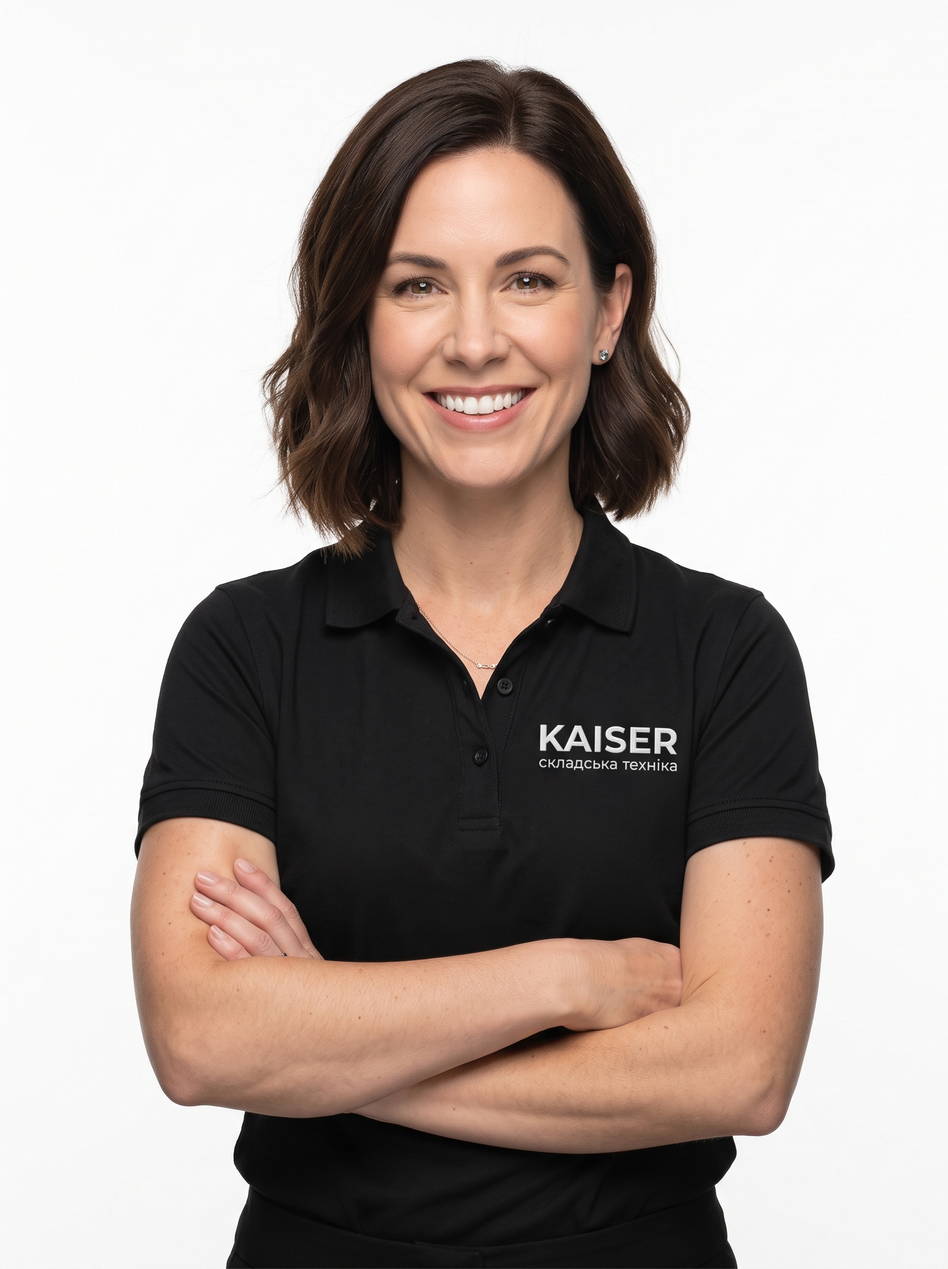
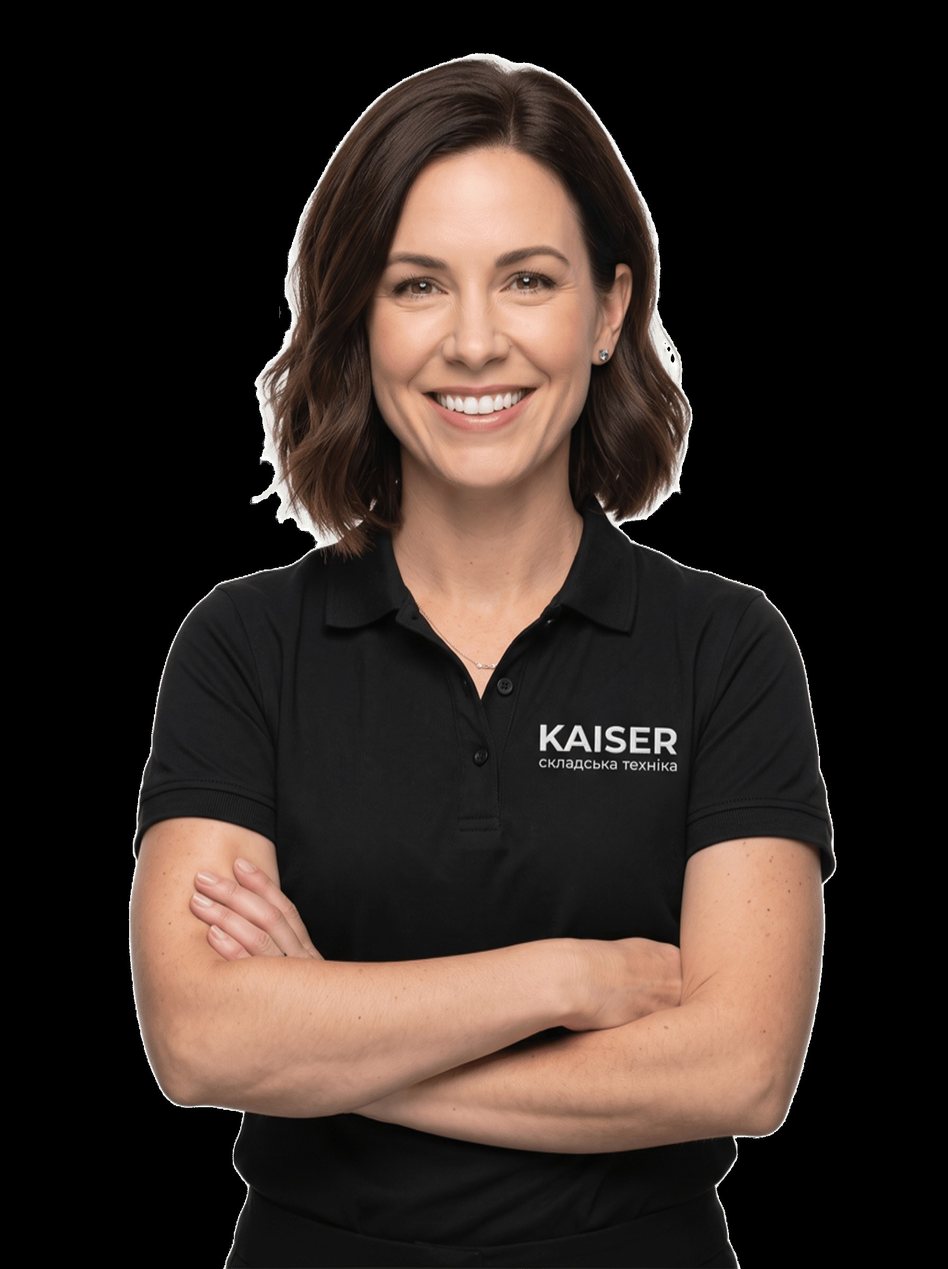
fix: crop product gallery images and pin consultation manager to section edge

diff --git a/src/components/sections/forms/ConsultationBlock.tsx b/src/components/sections/forms/ConsultationBlock.tsx
@@ -36,6 +36,7 @@ export function ConsultationBlock({ copy }: ConsultationBlockProps) {
   const [email, setEmail] = useState("");
   const [errors, setErrors] = useState<LeadFieldErrors>({});
   const [status, setStatus] = useState<"idle" | "success">("idle");
+  const [imageSrc, setImageSrc] = useState(copy.imageSrc);
 
   function validateField(field: keyof LeadFieldErrors) {
     const next = validateLeadFields(
@@ -71,10 +72,10 @@ export function ConsultationBlock({ copy }: ConsultationBlockProps) {
   return (
     <section
       id="consultation"
-      className="scroll-mt-20 border-y border-border bg-[#eef5f8]"
+      className="relative scroll-mt-20 overflow-hidden border-y border-border bg-[#eef5f8]"
     >
-      <div className="mx-auto grid w-full max-w-7xl items-end gap-10 px-4 py-16 sm:px-6 lg:grid-cols-[1fr_1fr_auto] lg:gap-12 lg:py-20">
-        <ScrollReveal className="flex flex-col gap-5 self-center">
+      <div className="mx-auto grid w-full max-w-7xl items-end gap-10 px-4 pt-16 sm:px-6 lg:grid-cols-[minmax(0,1fr)_minmax(0,1fr)_auto] lg:gap-8 lg:pt-20">
+        <ScrollReveal className="flex flex-col gap-5 pb-12 lg:pb-16">
           <h2 className="text-2xl font-bold tracking-tight text-heading sm:text-3xl">
             {copy.title}
           </h2>
@@ -90,7 +91,7 @@ export function ConsultationBlock({ copy }: ConsultationBlockProps) {
           </ul>
         </ScrollReveal>
 
-        <ScrollReveal delay={0.06} className="self-center">
+        <ScrollReveal delay={0.06} className="pb-12 lg:pb-16">
           {status === "success" ? (
             <p className="rounded-2xl border border-border bg-white px-5 py-8 text-center text-sm font-semibold text-heading shadow-sm">
               {copy.success}
@@ -138,18 +139,21 @@ export function ConsultationBlock({ copy }: ConsultationBlockProps) {
           )}
         </ScrollReveal>
 
-        <ScrollReveal
-          delay={0.1}
-          className="relative mx-auto h-52 w-full max-w-[14rem] overflow-hidden lg:h-[22rem] lg:w-56"
-        >
+        <div className="pointer-events-none flex justify-center self-end lg:justify-end">
           <Image
-            src={copy.imageSrc}
+            src={imageSrc}
             alt={copy.imageAlt}
-            fill
-            sizes="224px"
-            className="object-contain object-bottom"
+            width={420}
+            height={640}
+            sizes="(max-width: 1024px) 220px, 280px"
+            className="h-[340px] w-auto object-contain object-bottom lg:h-[400px]"
+            onError={() => {
+              if (imageSrc !== "/images/manager.jpg") {
+                setImageSrc("/images/manager.jpg");
+              }
+            }}
           />
-        </ScrollReveal>
+        </div>
       </div>
     </section>
   );

diff --git a/src/components/sections/hero/ProductHero.tsx b/src/components/sections/hero/ProductHero.tsx
@@ -44,19 +44,19 @@ export function ProductHero({ product, copy }: ProductHeroProps) {
                     aria-label={`${copy.thumbPlaceholder} ${index + 1}`}
                     aria-pressed={index === activeIndex}
                     className={cn(
-                      "w-full overflow-hidden rounded-lg transition-opacity",
+                      "w-full overflow-hidden rounded-lg border-2 transition-opacity",
                       index === activeIndex
-                        ? "ring-2 ring-accent ring-offset-1"
-                        : "opacity-80 hover:opacity-100",
+                        ? "border-accent"
+                        : "border-transparent opacity-80 hover:opacity-100",
                     )}
                   >
                     <MediaImage
                       src={image.src}
                       alt={image.alt}
                       aspect="1/1"
-                      fit="contain"
+                      fit="cover"
                       sizes="80px"
-                      className="rounded-lg border border-border bg-white"
+                      className="h-full w-full"
                     />
                   </button>
                 </li>
@@ -69,9 +69,9 @@ export function ProductHero({ product, copy }: ProductHeroProps) {
               src={activeImage?.src}
               alt={activeImage?.alt ?? product.name ?? copy.imagePlaceholder}
               aspect="4/3"
-              fit="contain"
+              fit="cover"
               sizes="(max-width: 1024px) 100vw, 50vw"
-              className="rounded-2xl border-2 border-accent bg-white shadow-sm"
+              className="h-full w-full rounded-2xl border-2 border-accent shadow-sm"
             />
           </div>
         </div>

diff --git a/src/components/sections/product/RelatedProductsCarousel.tsx b/src/components/sections/product/RelatedProductsCarousel.tsx
@@ -115,16 +115,16 @@ export function RelatedProductsCarousel({
                 >
                   <Link
                     href={`/${lang}/product/${product.slug}`}
-                    className="block border-b border-border bg-white"
+                    className="block overflow-hidden rounded-2xl bg-neutral-100"
                     draggable={false}
                   >
                     <MediaImage
                       src={product.images?.[0]?.src ?? product.imageSrc}
                       alt={product.images?.[0]?.alt ?? product.imageAlt ?? product.name}
                       aspect="4/3"
-                      fit="contain"
+                      fit="cover"
                       sizes="(max-width: 640px) 100vw, (max-width: 1280px) 33vw, 25vw"
-                      className="bg-white"
+                      className="h-full w-full overflow-hidden rounded-2xl bg-neutral-100"
                     />
                   </Link>
                   <div className="flex flex-1 flex-col gap-3 p-4">

diff --git a/src/data/dictionary.ts b/src/data/dictionary.ts
@@ -760,7 +760,7 @@ const DICTIONARY_UK: Dictionary = {
     email: "Email",
     submit: "Отримати консультацію",
     success: "Заявку прийнято. Менеджер зателефонує.",
-    imageSrc: "/images/manager.jpg",
+    imageSrc: "/images/manager.png",
     imageAlt: "Менеджер KAISER",
     errors: {
       fullName: "Вкажіть ім’я (мінімум 2 символи).",
@@ -1190,7 +1190,7 @@ const DICTIONARY_RU: Dictionary = {
     email: "Email",
     submit: "Получить консультацию",
     success: "Заявку приняли. Менеджер перезвонит.",
-    imageSrc: "/images/manager.jpg",
+    imageSrc: "/images/manager.png",
     imageAlt: "Менеджер KAISER",
     errors: {
       fullName: "Укажите имя (минимум 2 символа).",
